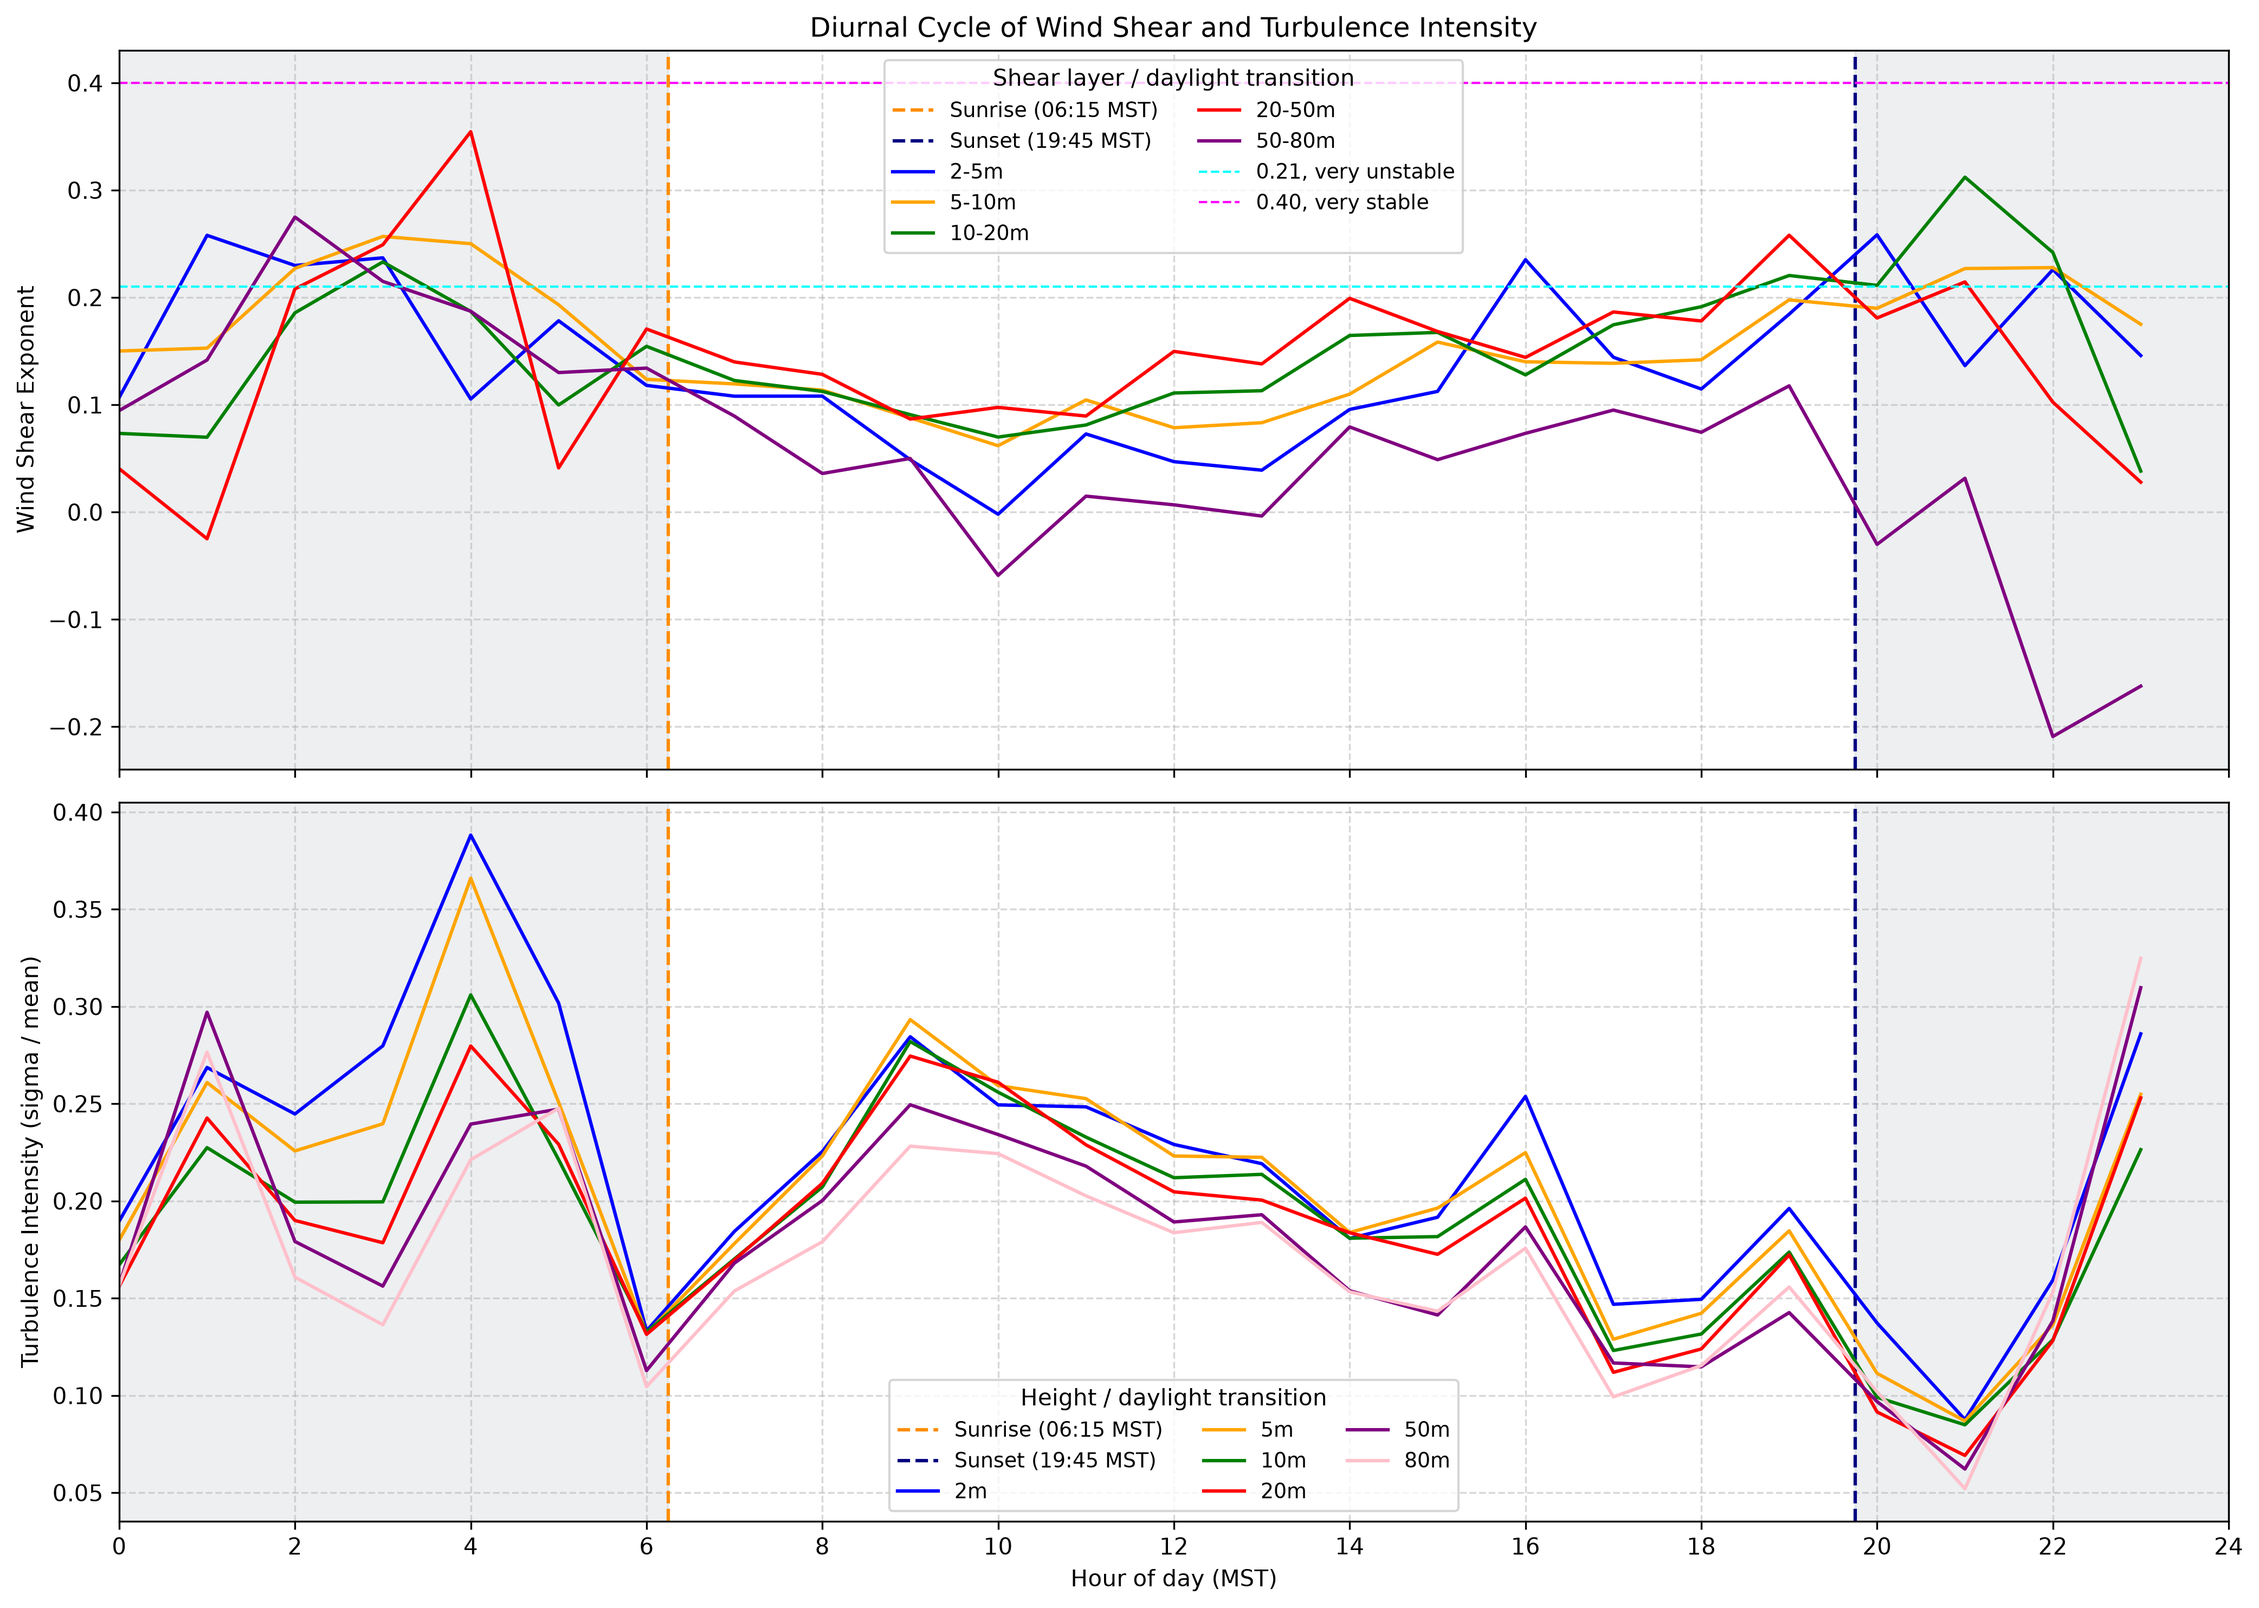
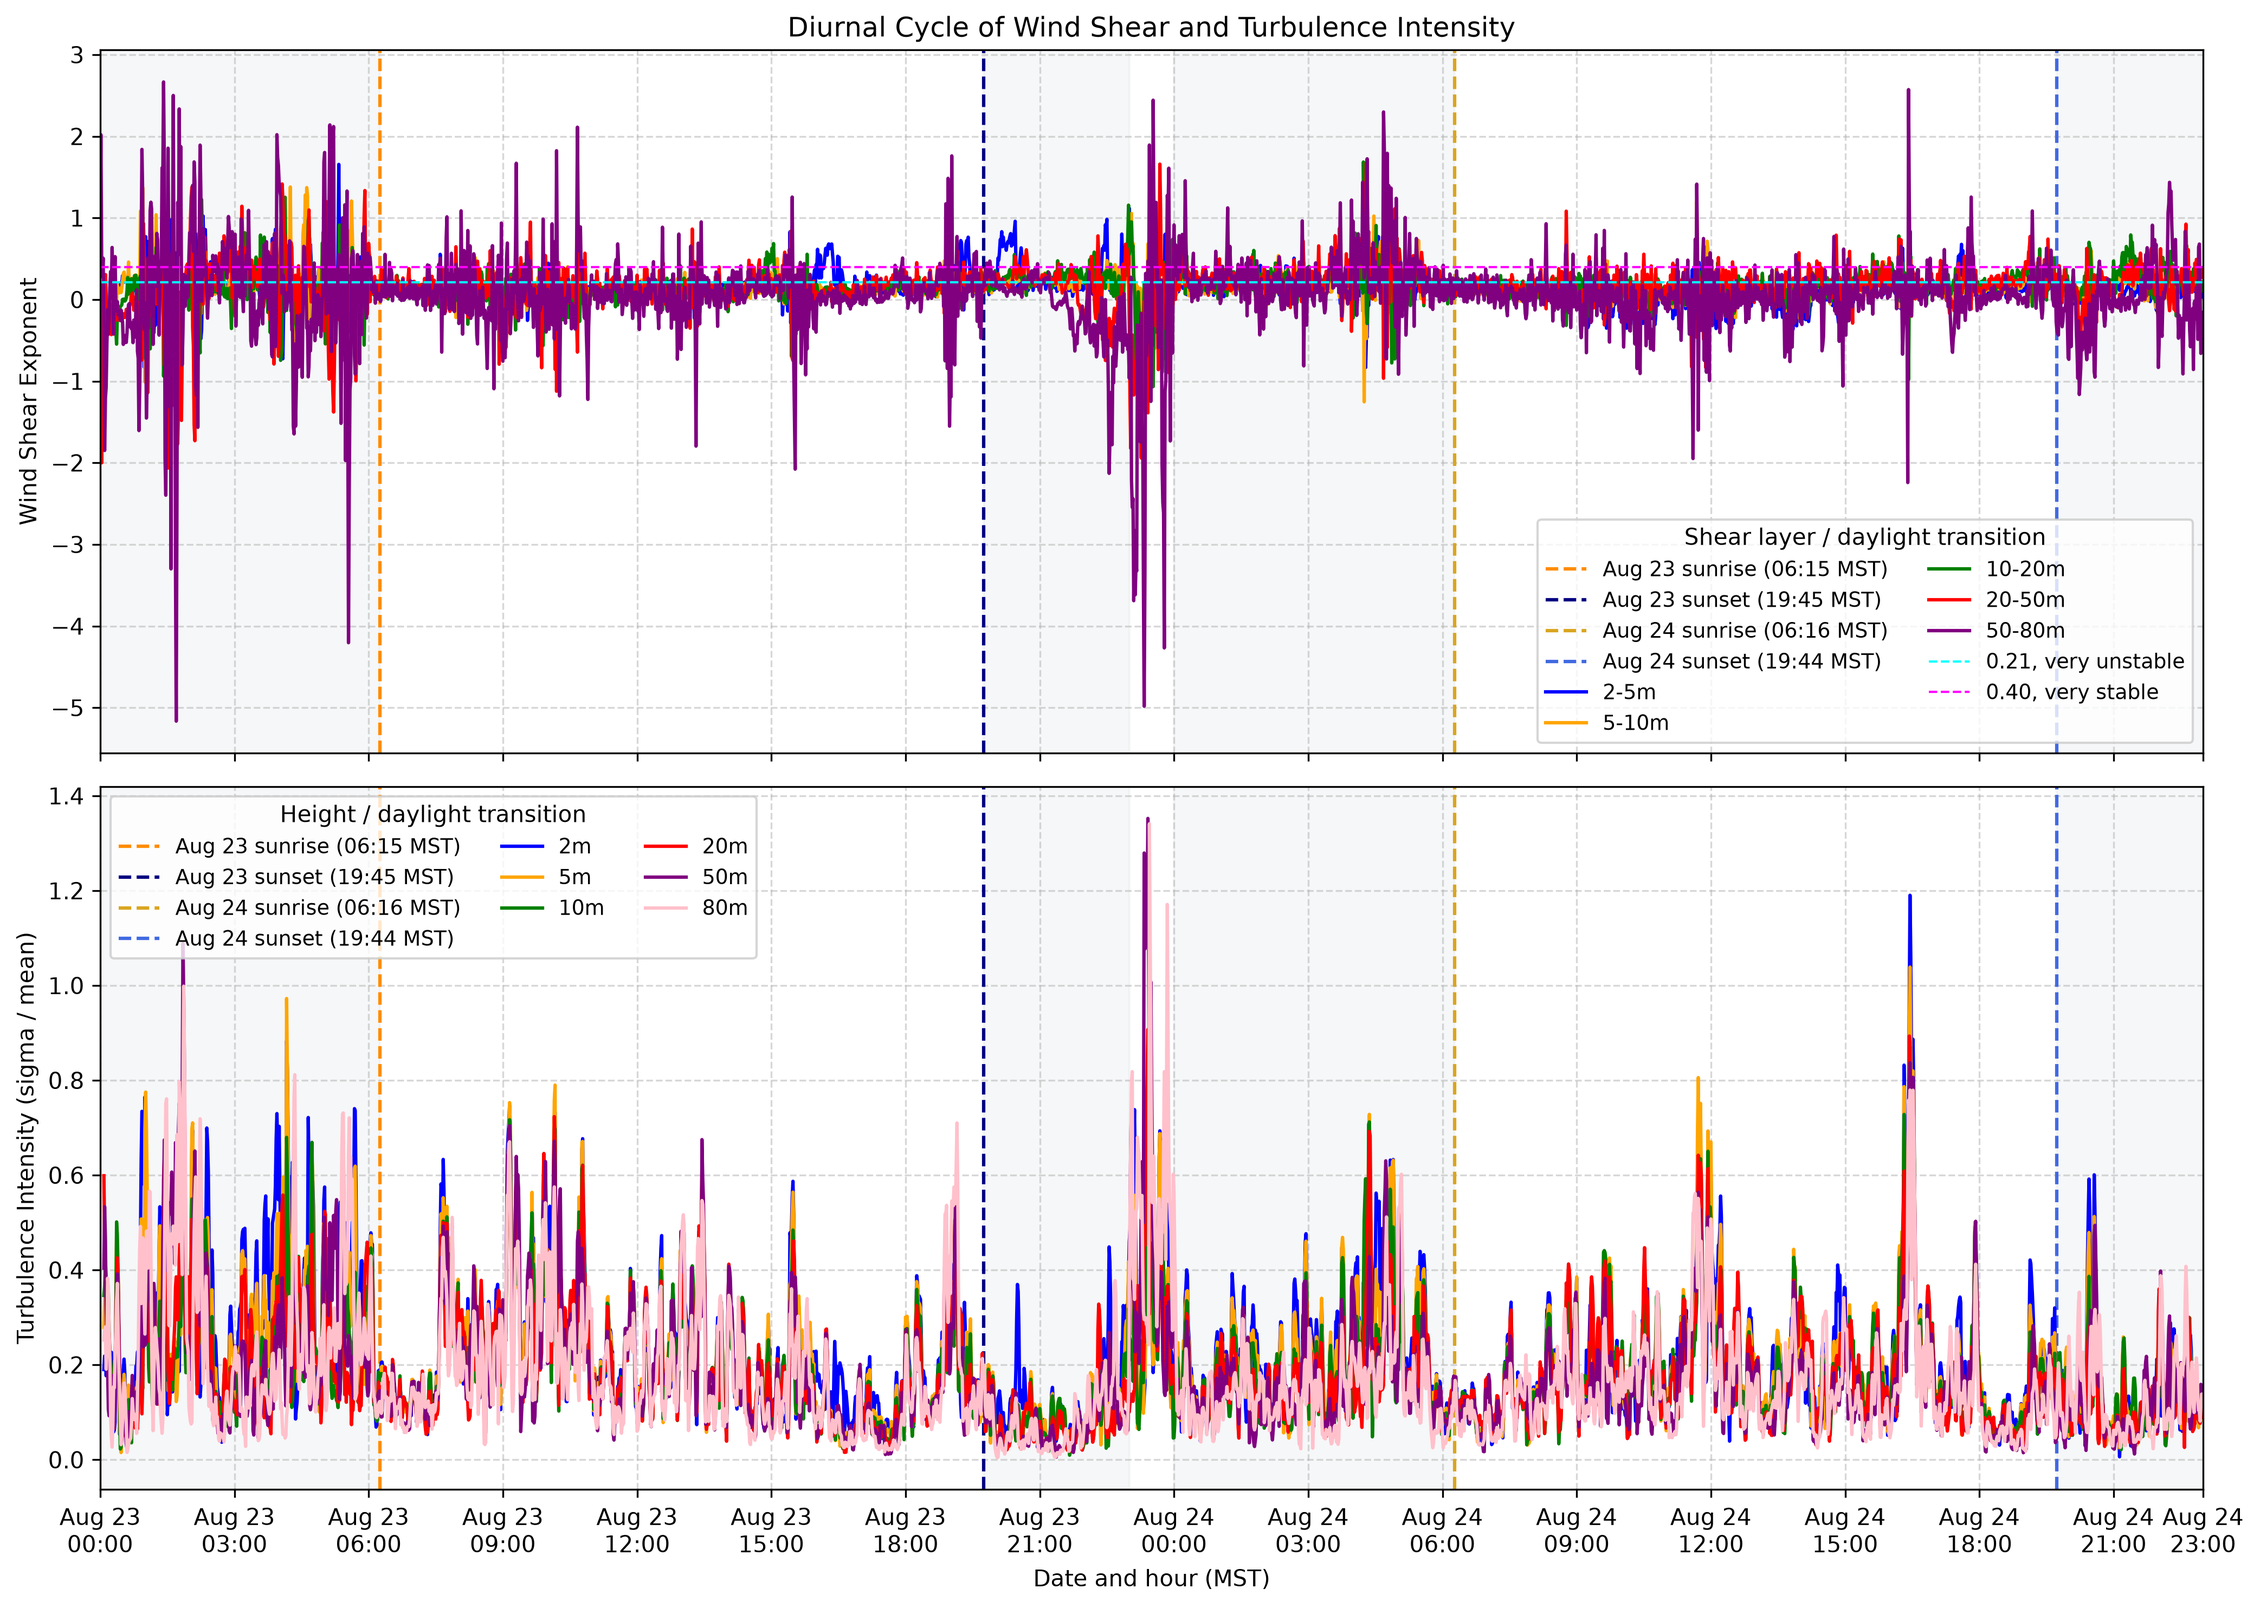
longer diurnal plot

diff --git a/Pub_M2_pull_Demo.py b/Pub_M2_pull_Demo.py
@@ -178,7 +178,7 @@ skip = 12
 #"-----------------------------------------------------------------------------------------------------------------------"#
 
 #Compute the wind shear exponent (power law)
-# Vu = Vl * (HU/HL) ^ (exp)
+#Vu = Vl * (HU/HL) ^ (exp)
 ## Where: 
 ## Vu = wind speed at upper height (m/s)
 ## Vl = wind speed at lower height (m/s)
@@ -186,12 +186,14 @@ skip = 12
 ## HL = lower height (m)
 ## the exponent (exp) is the wind shear exponent
 
+ #exp = log(Vu/Vl) / log(HU/HL)
+
 ### exp < 0.21 = (very-modertly unstable) 
 ### 0.21 < exp < 0.25 = near nuetral
 ### 0.25 < exp < 0.4 = moderately stable
 ### 0.4 < exp = very stable
 
-# exp = log(Vu/Vl) / log(HU/HL)
+
 
 xl = 0.21 #NEAR UNSTABLE VALUE
 xu = 0.4 #NEAR STABLE VALUE
@@ -247,7 +249,9 @@ exp_56 = np.log(avg_ws80 / avg_ws50) / np.log(H6 / H5)
 
 #calculating and plotting the turbulence intensity at different heights and over time. 
 
-#TI = V_std / V_avg --> turbulence intensity is the ratio of the standard deviation of the wind speed to the average wind speed at a given height.
+# ##turbulence intensity is the ratio of the standard deviation of the wind speed to the average wind speed at a given height.
+
+#TI = V_std / V_avg 
 
 # The workbook contains averaged wind speeds, so calculate a rolling estimate
 # of turbulence intensity from the variability between consecutive records.
@@ -422,156 +426,183 @@ g = 9.81  # acceleration due to gravity in m/s^2
 #Plotting the diurnal cycles of wind shear and turbulence itensity at different heights.
 ## Plottingthe transitions between the convective (daytime) and stable (nighttime) boundary layer conditions.
 
-# wind_speed_columns = {
-# 	height: f'Avg Wind Speed @ {height}m [m/s]'
-# 	for height in heights
-# }
-# shear_layers = list(zip(heights[:-1], heights[1:]))
+wind_speed_columns = {
+	height: f'Avg Wind Speed @ {height}m [m/s]'
+	for height in heights
+}
+shear_layers = list(zip(heights[:-1], heights[1:]))
 
-# Use the same three-hour rolling estimate as the turbulence-intensity plot above.
-# ti_window = 6
-# diurnal_data = pd.DataFrame({'time': time})
-# diurnal_data['time_of_day'] = diurnal_data['time'].dt.hour
+# Calculate turbulence intensity from a three-hour rolling estimate.
+ti_window = 6
+diurnal_data = pd.DataFrame({'time': time})
 
-# for height, wind_speed_column in wind_speed_columns.items():
-# 	rolling_wind_speed = df[wind_speed_column].rolling(
-# 		window=ti_window,
-# 		min_periods=ti_window,
-# 	)
-# 	diurnal_data[f'ti_{height}m'] = (
-# 	rolling_wind_speed.std()
-# 		/ rolling_wind_speed.mean().replace(0, np.nan)
-# 	)
+for height, wind_speed_column in wind_speed_columns.items():
+	rolling_wind_speed = df[wind_speed_column].rolling(
+		window=ti_window,
+		min_periods=ti_window,
+	)
+	diurnal_data[f'ti_{height}m'] = (
+	rolling_wind_speed.std()
+		/ rolling_wind_speed.mean().replace(0, np.nan)
+	)
 
-# for lower_height, upper_height in shear_layers:
-# 	lower_speed = df[wind_speed_columns[lower_height]].where(lambda values: values > 0)
-# 	upper_speed = df[wind_speed_columns[upper_height]].where(lambda values: values > 0)
-# 	diurnal_data[f'shear_{lower_height}_{upper_height}m'] = np.log(
-# 		upper_speed / lower_speed
-# 	) / np.log(upper_height / lower_height)
+for lower_height, upper_height in shear_layers:
+	lower_speed = df[wind_speed_columns[lower_height]].where(lambda values: values > 0)
+	upper_speed = df[wind_speed_columns[upper_height]].where(lambda values: values > 0)
+	diurnal_data[f'shear_{lower_height}_{upper_height}m'] = np.log(
+		upper_speed / lower_speed
+	) / np.log(upper_height / lower_height)
 
-# diurnal_cycle = diurnal_data.groupby('time_of_day').mean(numeric_only=True)
+plot_start = pd.Timestamp('2026-08-23 00:00:00')
+plot_end = pd.Timestamp('2026-08-24 23:00:00')
+diurnal_data = diurnal_data.loc[
+	(diurnal_data['time'] >= plot_start)
+	& (diurnal_data['time'] <= plot_end)
+]
 
-# fig, (shear_axis, ti_axis) = plt.subplots(2, 1, figsize=(14, 10), sharex=True)
+diurnal_data = diurnal_data.set_index('time').sort_index()
+diurnal_data = diurnal_data.rolling('30min', min_periods=1).mean()
 
-# Sunrise and sunset for the measurement period, expressed as MST decimal hours.
-sunrise_hour = 6.25
-sunset_hour = 19.75
+fig, (shear_axis, ti_axis) = plt.subplots(2, 1, figsize=(14, 10), sharex=True)
 
-# for axis in (shear_axis, ti_axis):
-# 	axis.axvspan(0, sunrise_hour, color='slategray', alpha=0.12)
-# 	axis.axvspan(sunset_hour, 24, color='slategray', alpha=0.12)
-# 	axis.axvline(
-# 		sunrise_hour,
-# 		color='darkorange',
-# 		linestyle='--',
-# 		linewidth=1.5,
-# 		label='Sunrise (06:15 MST)',
-# 	)
-# 	axis.axvline(
-# 		sunset_hour,
-# 		color='navy',
-# 		linestyle='--',
-# 		linewidth=1.5,
-# 		label='Sunset (19:45 MST)',
-# 	)
+# Sunrise and sunset for each date, expressed as MST decimal hours.
+daylight_transitions = {
+	'2026-08-23': {
+		'sunrise': (6.25, '06:15', 'darkorange'),
+		'sunset': (19.75, '19:45', 'navy'),
+	},
+	'2026-08-24': {
+		'sunrise': (6 + 16 / 60, '06:16', 'goldenrod'),
+		'sunset': (19 + 44 / 60, '19:44', 'royalblue'),
+	},
+}
 
-# for (lower_height, upper_height), color in zip(shear_layers, colors[:-1]):
-# 	shear_axis.plot(
-# 		diurnal_cycle.index,
-# 		diurnal_cycle[f'shear_{lower_height}_{upper_height}m'],
-# 		color=color,
-# 		linewidth=1.5,
-# 		label=f'{lower_height}-{upper_height}m',
-# 	)
+for axis in (shear_axis, ti_axis):
+	for date_string, transitions in daylight_transitions.items():
+		date_label = pd.Timestamp(date_string).strftime('%b %d')
+		date_start = pd.Timestamp(date_string)
+		date_end = date_start + pd.Timedelta(hours=23)
+		sunrise_hour, sunrise_time, sunrise_color = transitions['sunrise']
+		sunset_hour, sunset_time, sunset_color = transitions['sunset']
+		sunrise_timestamp = date_start + pd.Timedelta(hours=sunrise_hour)
+		sunset_timestamp = date_start + pd.Timedelta(hours=sunset_hour)
+		axis.axvspan(date_start, sunrise_timestamp, color='slategray', alpha=0.06)
+		axis.axvspan(sunset_timestamp, date_end, color='slategray', alpha=0.06)
+		axis.axvline(
+			sunrise_timestamp,
+			color=sunrise_color,
+			linestyle='--',
+			linewidth=1.5,
+			label=f'{date_label} sunrise ({sunrise_time} MST)',
+		)
+		axis.axvline(
+			sunset_timestamp,
+			color=sunset_color,
+			linestyle='--',
+			linewidth=1.5,
+			label=f'{date_label} sunset ({sunset_time} MST)',
+		)
 
-# shear_axis.axhline(xl, color='cyan', linestyle='--', linewidth=1, label='0.21, very unstable')
-# shear_axis.axhline(xu, color='magenta', linestyle='--', linewidth=1, label='0.40, very stable')
-# shear_axis.set_ylabel('Wind Shear Exponent')
-# shear_axis.set_title('Diurnal Cycle of Wind Shear and Turbulence Intensity')
-# shear_axis.grid(True, linestyle='--', alpha=0.5)
-# shear_axis.legend(title='Shear layer / daylight transition', fontsize=9, ncol=2)
+for (lower_height, upper_height), color in zip(shear_layers, colors[:-1]):
+	shear_axis.plot(
+		diurnal_data.index,
+		diurnal_data[f'shear_{lower_height}_{upper_height}m'],
+		color=color,
+		linewidth=1.5,
+		label=f'{lower_height}-{upper_height}m',
+	)
 
-# for height, color in zip(heights, colors):
-# 	ti_axis.plot(
-# 		diurnal_cycle.index,
-# 		diurnal_cycle[f'ti_{height}m'],
-# 		color=color,
-# 		linewidth=1.5,
-# 		label=f'{height}m',
-# 	)
+shear_axis.axhline(xl, color='cyan', linestyle='--', linewidth=1, label='0.21, very unstable')
+shear_axis.axhline(xu, color='magenta', linestyle='--', linewidth=1, label='0.40, very stable')
+shear_axis.set_ylabel('Wind Shear Exponent')
+shear_axis.set_title('Diurnal Cycle of Wind Shear and Turbulence Intensity')
+shear_axis.grid(True, linestyle='--', alpha=0.5)
+shear_axis.legend(title='Shear layer / daylight transition', fontsize=9, ncol=2)
 
-# ti_axis.set_xlabel('Hour of day (MST)')
-# ti_axis.set_ylabel('Turbulence Intensity (sigma / mean)')
-# ti_axis.set_xlim(0, 24)
-# ti_axis.set_xticks(range(0, 25, 2))
-# ti_axis.grid(True, linestyle='--', alpha=0.5)
-# ti_axis.legend(title='Height / daylight transition', fontsize=9, ncol=3)
+for height, color in zip(heights, colors):
+	ti_axis.plot(
+		diurnal_data.index,
+		diurnal_data[f'ti_{height}m'],
+		color=color,
+		linewidth=1.5,
+		label=f'{height}m',
+	)
 
-# fig.tight_layout()
-# plt.show()
+ti_axis.set_xlabel('Date and hour (MST)')
+ti_axis.set_ylabel('Turbulence Intensity (sigma / mean)')
+ti_axis.set_xlim(plot_start, plot_end)
+axis_ticks = list(pd.date_range(plot_start, plot_end, freq='3h'))
+if axis_ticks[-1] != plot_end:
+	axis_ticks.append(plot_end)
+ti_axis.set_xticks(axis_ticks)
+ti_axis.xaxis.set_major_formatter(mdates.DateFormatter('%b %d\n%H:%M'))
+ti_axis.grid(True, linestyle='--', alpha=0.5)
+ti_axis.legend(title='Height / daylight transition', fontsize=9, ncol=3)
+
+fig.tight_layout()
+plt.show()
 
 
-# output_folder = "C:/Users/kwilde/Documents/GitHub/KW_Codebook/output_plots"
-# os.makedirs(output_folder, exist_ok=True)
-# output_path = f"{output_folder}/AUG23_24_M2_DIURNAL_SHEAR_TURBULENCE.png"
-# fig.savefig(output_path, dpi=300, bbox_inches='tight')
-# print(f"Plot saved to: {output_path}")
+output_folder = "C:/Users/kwilde/Documents/GitHub/KW_Codebook/output_plots"
+os.makedirs(output_folder, exist_ok=True)
+output_path = f"{output_folder}/AUG23_24_M2_DIURNAL_SHEAR_TURBULENCE.png"
+fig.savefig(output_path, dpi=300, bbox_inches='tight')
+print(f"Plot saved to: {output_path}")
 
 #"-----------------------------------------------------------------------------------------------------------------------"#
 
 # Plotting wind speed profiles over height at four-hour intervals on August 23-24, 2026.
 
-profile_heights = [2, 5, 10, 20, 50, 80]
-profile_wind_speed_columns = {
-	height: f'Avg Wind Speed @ {height}m [m/s]'
-	for height in profile_heights
-}
+# profile_heights = [2, 5, 10, 20, 50, 80]
+# profile_wind_speed_columns = {
+# 	height: f'Avg Wind Speed @ {height}m [m/s]'
+# 	for height in profile_heights
+# }
 
-profile_times = [
-	pd.Timestamp(f'{date} {hour:02d}:00:00')
-	for date in ('2026-08-23', '2026-08-24')
-	for hour in range(0, 24, 4)
-]
+# profile_times = [
+# 	pd.Timestamp(f'{date} {hour:02d}:00:00')
+# 	for date in ('2026-08-23', '2026-08-24')
+# 	for hour in range(0, 24, 4)
+# ]
 
-fig, axis = plt.subplots(figsize=(10, 6))
+# fig, axis = plt.subplots(figsize=(10, 6))
 
-profile_colors = plt.cm.tab20(np.linspace(0, 1, len(profile_times)))
-for color, profile_time in zip(profile_colors, profile_times):
-	date_rows = df.loc[df['datetime'].dt.date == profile_time.date()]
-	if date_rows.empty:
-		raise ValueError(f'No wind-speed records found for {profile_time.date()}.')
+# profile_colors = plt.cm.tab20(np.linspace(0, 1, len(profile_times)))
+# for color, profile_time in zip(profile_colors, profile_times):
+# 	date_rows = df.loc[df['datetime'].dt.date == profile_time.date()]
+# 	if date_rows.empty:
+# 		raise ValueError(f'No wind-speed records found for {profile_time.date()}.')
 
-	closest_index = (date_rows['datetime'] - profile_time).abs().idxmin()
-	profile_row = df.loc[closest_index]
-	profile_wind_speeds = [
-		profile_row[profile_wind_speed_columns[height]]
-		for height in profile_heights
-	]
-	axis.plot(
-		profile_heights,
-		profile_wind_speeds,
-		color=color,
-		marker='o',
-		linewidth=1.8,
-		markersize=5,
-		label=profile_time.strftime('%b %d %H:%M MST'),
-	)
+# 	closest_index = (date_rows['datetime'] - profile_time).abs().idxmin()
+# 	profile_row = df.loc[closest_index]
+# 	profile_wind_speeds = [
+# 		profile_row[profile_wind_speed_columns[height]]
+# 		for height in profile_heights
+# 	]
+# 	axis.plot(
+# 		profile_heights,
+# 		profile_wind_speeds,
+# 		color=color,
+# 		marker='o',
+# 		linewidth=1.8,
+# 		markersize=5,
+# 		label=profile_time.strftime('%b %d %H:%M MST'),
+# 	)
 
-axis.set_xlabel('Height (m)')
-axis.set_ylabel('Average Wind Speed (m/s)')
-axis.set_title('Wind Speed Profiles Over Height at Four-Hour Intervals')
-axis.set_xticks(profile_heights)
-axis.grid(True, linestyle='--', alpha=0.5)
-axis.legend(title='Observation time', fontsize=9, ncol=2)
+# axis.set_xlabel('Height (m)')
+# axis.set_ylabel('Average Wind Speed (m/s)')
+# axis.set_title('Wind Speed Profiles Over Height at Four-Hour Intervals')
+# axis.set_xticks(profile_heights)
+# axis.grid(True, linestyle='--', alpha=0.5)
+# axis.legend(title='Observation time', fontsize=9, ncol=2)
 
-fig.tight_layout()
-output_folder = "C:/Users/kwilde/Documents/GitHub/KW_Codebook/output_plots"
-os.makedirs(output_folder, exist_ok=True)
-output_path = f"{output_folder}/AUG23_24_2026_WIND_SPEED_PROFILES_4HR.png"
-fig.savefig(output_path, dpi=300, bbox_inches='tight')
-print(f"Plot saved to: {output_path}")
-plt.show()
+# fig.tight_layout()
+# output_folder = "C:/Users/kwilde/Documents/GitHub/KW_Codebook/output_plots"
+# os.makedirs(output_folder, exist_ok=True)
+# output_path = f"{output_folder}/AUG23_24_2026_WIND_SPEED_PROFILES_4HR.png"
+# fig.savefig(output_path, dpi=300, bbox_inches='tight')
+# print(f"Plot saved to: {output_path}")
+# plt.show()
 
 
 
